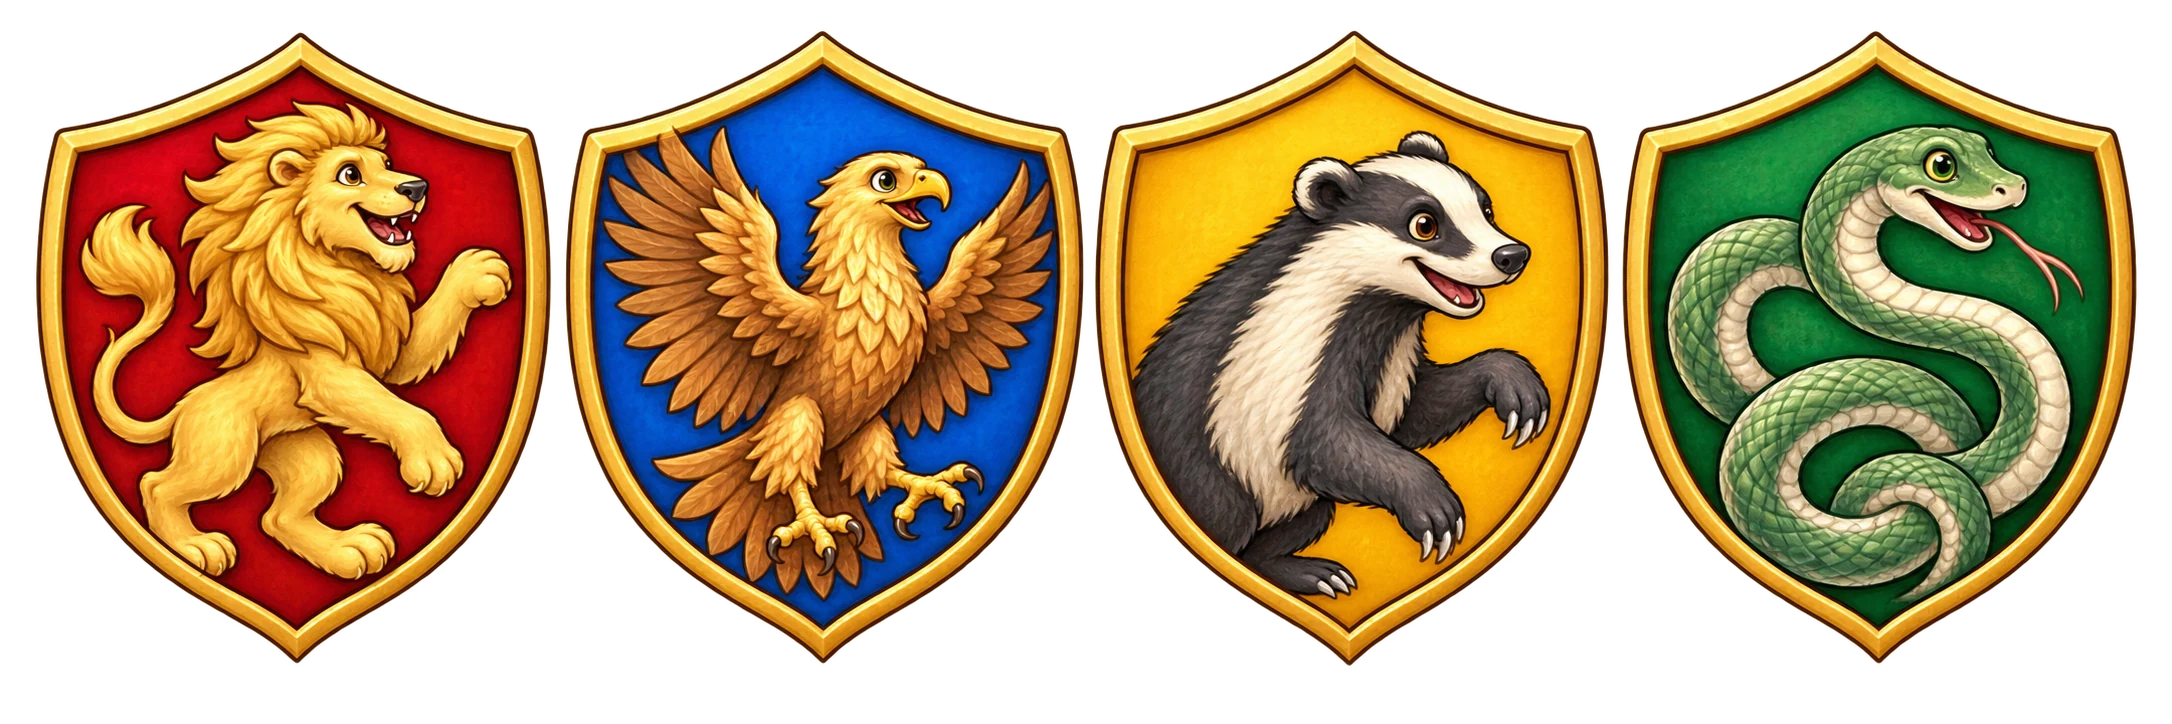
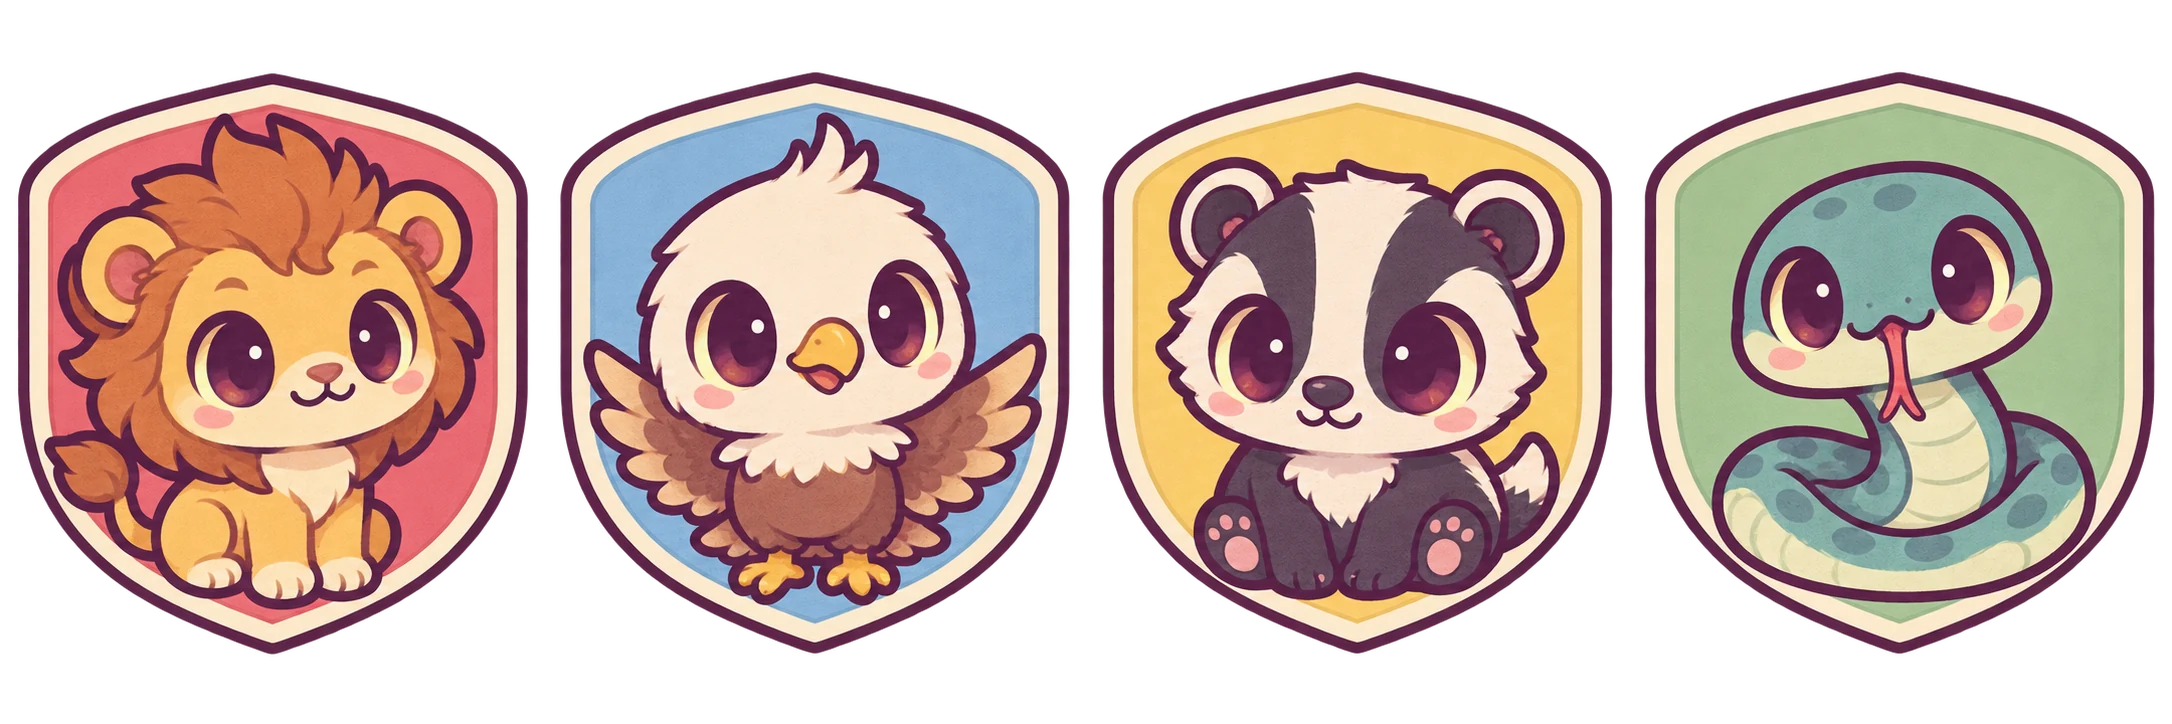
Adopter les mascottes chibi et les couleurs pastel dans l’essai

diff --git a/sorciers/style.css b/sorciers/style.css
@@ -1,6 +1,6 @@
-@font-face{font-family:Atkinson;src:url('polices/atkinson-hyperlegible-latin-400-normal.woff2') format('woff2');font-weight:400;font-display:swap}
+@font-face{font-family:Atkinson;src:url('polices/atkinson-hyperlegible-latin-400-normal.woff2?v=d64ba838ef54') format('woff2');font-weight:400;font-display:swap}
 
-@font-face{font-family:Atkinson;src:url('polices/atkinson-hyperlegible-latin-700-normal.woff2') format('woff2');font-weight:700;font-display:swap}
+@font-face{font-family:Atkinson;src:url('polices/atkinson-hyperlegible-latin-700-normal.woff2?v=140e2bd25a73') format('woff2');font-weight:700;font-display:swap}
 
 :root{color-scheme:light;--paper:#f8f5ee;--panel:#fffdf8;--ink:#332b40;--soft:#71697b;--line:#e1dbd0;--accent:#5a3f70;--wash:#ece7f0}
 
@@ -42,7 +42,7 @@ small,.muted{color:var(--soft)}
 #link-status.linked:before{color:#357766}
 .a-content{max-width:1400px;margin:auto;padding:28px 4% 40px}
 .eyebrow{text-transform:uppercase;letter-spacing:2px;font-size:12px;font-weight:700;color:var(--accent)}
-.hero{border-radius:20px;background:linear-gradient(90deg,rgba(36,23,59,.88),rgba(36,23,59,.16) 70%),url('assets/chateau.webp') center 52%/cover;min-height:420px;display:flex;align-items:center;padding:45px;color:#fff8ea}
+.hero{border-radius:20px;background:linear-gradient(90deg,rgba(36,23,59,.88),rgba(36,23,59,.16) 70%),url('assets/chateau.webp?v=bb840f9d3d93') center 52%/cover;min-height:420px;display:flex;align-items:center;padding:45px;color:#fff8ea}
 .hero-copy{max-width:510px}
 .hero h1{font-size:54px;margin:17px 0 18px;line-height:1.05}
 .hero p{font-size:18px;max-width:380px;color:#eee3f4}
@@ -59,7 +59,7 @@ small,.muted{color:var(--soft)}
 .house small{display:block;font-size:12px}
 .house>strong{margin-left:auto;font:29px/1 Georgia,serif;text-align:center;color:var(--house)}
 .house>strong small{font:11px/1.5 Atkinson,sans-serif;margin-top:4px}
-.crest{display:block;flex:none;width:48px;height:64px;background:url('assets/maisons.webp') no-repeat;background-size:400% 100%;background-position:calc(var(--h)*100%/3) 0}
+.crest{display:block;flex:none;width:48px;height:64px;background:url('assets/maisons.webp?v=4ebc69a74c45') no-repeat;background-size:400% 100%;background-position:calc(var(--h)*100%/3) 0}
 .chapter{display:grid;grid-template-columns:32% 1fr;gap:30px;align-items:center;margin-top:28px;padding:24px;background:#eee8de;border-radius:16px}
 .chapter img{width:100%;aspect-ratio:1.6;object-fit:cover;border-radius:11px}
 .chapter h2{margin-top:8px}
@@ -186,7 +186,7 @@ small,.muted{color:var(--soft)}
 .utility>div{gap:12px}
 .utility .volume{font-size:12px}
 .a-content{padding:20px 17px 25px}
-.hero{min-height:400px;padding:30px 24px;background-position:60% 50%;background-image:linear-gradient(90deg,rgba(36,23,59,.87),rgba(36,23,59,.40)),url('assets/chateau.webp')}
+.hero{min-height:400px;padding:30px 24px;background-position:60% 50%;background-image:linear-gradient(90deg,rgba(36,23,59,.87),rgba(36,23,59,.40)),url('assets/chateau.webp?v=bb840f9d3d93')}
 .hero h1{font-size:40px}
 .hero p{font-size:17px}
 .eyebrow{font-size:10px;letter-spacing:1.5px}
@@ -262,9 +262,9 @@ h1{font-size:34px}
 .phone-ritual .quiz-top{font-size:14px}
 
 /* Même famille visuelle que le Bateau-école : Baloo, cartes arrondies, boutons en relief. */
-@font-face{font-family:Baloo;src:url('polices/baloo-2-latin-700-normal.woff2') format('woff2');font-weight:700;font-display:swap}
+@font-face{font-family:Baloo;src:url('polices/baloo-2-latin-700-normal.woff2?v=8e7ffc9b993a') format('woff2');font-weight:700;font-display:swap}
 
-@font-face{font-family:Baloo;src:url('polices/baloo-2-latin-800-normal.woff2') format('woff2');font-weight:800;font-display:swap}
+@font-face{font-family:Baloo;src:url('polices/baloo-2-latin-800-normal.woff2?v=3e36c57e37bd') format('woff2');font-weight:800;font-display:swap}
 
 :root{--paper:#eef7f4;--panel:#fffdf5;--ink:#293952;--soft:#566d7f;--line:#d4e3de;--accent:#68509c;--wash:#eae4f8;--display:Baloo,'Trebuchet MS',sans-serif}
 
@@ -285,7 +285,7 @@ button,.action,.btn{font-family:var(--display);font-weight:800}
 .utility #music-toggle{background:#fff8df;border:1px solid #dccb91;border-radius:99px;padding:3px 12px}
 .utility input{background:none}
 .eyebrow{text-transform:none;letter-spacing:.2px;font:800 17px/1.3 var(--display);color:#716093}
-.hero{position:relative;overflow:hidden;min-height:435px;padding:30px;border:4px solid #c2c1e8;border-radius:32px;box-shadow:0 7px 0 #a7add3;background-image:url('assets/chateau.webp');background-position:center 53%;color:var(--ink)}
+.hero{position:relative;overflow:hidden;min-height:435px;padding:30px;border:4px solid #c2c1e8;border-radius:32px;box-shadow:0 7px 0 #a7add3;background-image:url('assets/chateau.webp?v=bb840f9d3d93');background-position:center 53%;color:var(--ink)}
 .hero-copy{position:relative;max-width:450px;background:#fffdf3f5;border:3px solid #eed49b;border-radius:28px 35px 27px 33px;padding:27px 30px 25px;box-shadow:0 6px 0 #69598638;transform:rotate(-1deg)}
 .hero .eyebrow{display:inline-block;background:#ece2fa;color:#7350a0;border-radius:99px;padding:5px 12px;font-size:15px}
 .hero h1{font:800 52px/1.03 var(--display);color:#54417e;margin:17px 0}
@@ -397,7 +397,7 @@ input,select,textarea{border:2px solid #c6b9d9;border-radius:13px}
 .a-seal{width:41px;height:46px;font-size:33px;flex:none}
 .a-nav{gap:4px}
 .a-nav button{font-size:14px;padding:7px 10px}
-.hero{min-height:490px;padding:165px 17px 20px;border-radius:25px;align-items:flex-end;background-image:url('assets/chateau.webp');background-position:74% 30%;background-size:auto 100%}
+.hero{min-height:490px;padding:165px 17px 20px;border-radius:25px;align-items:flex-end;background-image:url('assets/chateau.webp?v=bb840f9d3d93');background-position:74% 30%;background-size:auto 100%}
 .hero-copy{padding:20px 21px;transform:none;border-radius:24px;max-width:none;width:100%}
 .hero h1{font-size:40px;margin:12px 0}
 .hero .eyebrow{font-size:14px}
@@ -457,3 +457,32 @@ input,select,textarea{border:2px solid #c6b9d9;border-radius:13px}
 .phone-mode .volume{display:none}
 .phone-mode .a-nav{gap:2px}
 }
+/* Illustrations chibi : contours prune et fonds pastel inspirés de la référence fournie. */
+:root{--paper:#f8f3f7;--panel:#fffaf4;--ink:#624b68;--soft:#7b687f;--accent:#865987;--wash:#eee1f0;--line:#e5d6e3}
+body{background:radial-gradient(circle at 12px 12px,#e8dce8 1.5px,transparent 2px) 0 0/28px 28px,var(--paper)}
+.a-top{background:#fffaf4;border-color:#ead3df}
+.a-name{color:#714b75}
+.a-seal{background:#f9ddb1;border-color:#dcaec3;color:#865575;box-shadow:0 3px 0 #c797af}
+.a-caption{color:#8b7189}
+.a-nav button[aria-current=page]{background:#eedfeb;color:#7c507f;box-shadow:0 3px 0 #ceb4cc}
+.utility,.trial-footer{background:#efe3ee;border-color:#deccdf}
+.hero{background:linear-gradient(120deg,#f8e7ef,#fff5ed);min-height:455px;padding:32px;border-color:#dcbfdc;box-shadow:0 7px 0 #bea5c5;isolation:isolate}
+.hero-art{position:absolute;right:1%;bottom:12px;width:62%;height:95%;object-fit:contain;object-position:right bottom;z-index:-1}
+.hero-copy{width:43%;max-width:520px;background:#fffaf4f5;border-color:#e6c8d7;border-radius:30px;box-shadow:0 6px 0 #c4abc13b;transform:none;padding:26px}
+.hero h1{font-size:48px;color:#785080;line-height:1.08}
+.hero p{color:#826986;font-size:18px}
+.hero .eyebrow{background:#f0dce8;color:#91678e}
+.hero .action{background:#f7d3ab;border-color:#dcb18e;color:#775361;box-shadow:0 5px 0 #b9878c}
+.hero-note{color:#927079}
+.section-heading h2{color:#775b7d}
+.chapter{background:#fff2e6;border-color:#e8c9b9;box-shadow:0 5px 0 #d1b1a9}
+.chapter h2{color:#90606d}
+.chapter img{border-color:#d8bac5}
+.chapter .eyebrow{color:#b08086}
+.chapter p{color:#876c77}
+.help-strip{background:#eeebf7;border-color:#d0c4df;color:#80658b}
+.podium-title h1{color:#855a86}
+@media(max-width:1050px){.hero-copy{width:47%;padding:23px}.hero-art{right:0;width:58%}.hero h1{font-size:40px}.hero p{font-size:17px}}
+@media(max-width:650px){.hero{padding:240px 15px 18px;min-height:0;background:linear-gradient(#f8e7ef,#fff5ed)}.hero-art{width:100%;height:240px;top:4px;right:0;bottom:auto;object-position:center}.hero-copy{width:100%;padding:21px;max-width:none}.hero h1{font-size:36px}.hero p{font-size:16px}.hero .action{font-size:21px}.hero-note{font-size:12px}}
+
+@media(max-width:650px){.house{flex-direction:column;flex-wrap:nowrap;gap:6px}.house>div{flex:none}.house>strong{margin-top:auto}.house .crest{margin-bottom:2px}}

diff --git a/sorciers/app.js b/sorciers/app.js
@@ -70,7 +70,7 @@ window.Sorciers=(()=>{
   function houses(points=C.total(S)){return `<div class="houses">${H.map((h,i)=>`<article class="house" style="--house:${h.couleur}">${crest(i)}<div><b>${h.nom}</b><small>${S.eleves.filter(e=>e.actif&&e.maison===i).length} élèves</small></div><strong>${points[i]}<small>points</small></strong></article>`).join('')}</div>`;}
   function heading(k,t,p=''){return `<div class="page-heading"><div class="eyebrow">${k}</div><h1>${t}</h1>${p?`<p>${p}</p>`:''}</div>`;}
   const button=(action,label,secondary=false,extra='')=>`<button class="action${secondary?' secondary':''}" data-act="${action}" data-write ${extra}>${label}</button>`;
-  function home(){const active=S.session&&!C.fin(S);return `<section class="hero"><div class="hero-copy"><div class="eyebrow">Bienvenue à Poudlard</div><h1>Le château<br>compte sur vous !</h1><p>À vos baguettes ! Répondez aux défis, gagnez des points et découvrez les secrets du château.</p>${S.eleves.some(e=>e.actif)?button('start',active?'Reprendre l’aventure':'C’est parti !'):`<button class="action" data-view="students">Préparer ma classe</button>`}<span class="hero-note">6 questions · +5 points par bonne réponse</span></div></section>
+  function home(){const active=S.session&&!C.fin(S);return `<section class="hero"><img class="hero-art" src="assets/chateau.webp" alt="Les quatre mascottes des maisons vous accueillent devant un petit château."><div class="hero-copy"><div class="eyebrow">Bienvenue à Poudlard</div><h1>À vos baguettes,<br>les sorciers !</h1><p>Répondez aux défis, gagnez des points et découvrez les secrets du château.</p>${S.eleves.some(e=>e.actif)?button('start',active?'Reprendre l’aventure':'C’est parti !'):`<button class="action" data-view="students">Préparer ma classe</button>`}<span class="hero-note">6 questions · +5 points par bonne réponse</span></div></section>
       <div class="section-heading"><h2>Qui fera briller sa maison ?</h2><button class="text-button" data-view="podium">Voir le podium →</button></div>${houses()}
       <section class="chapter"><img src="assets/serre.webp" alt="Une serre enchantée abrite un petit dragon de feuilles."><div><div class="eyebrow">Premier secret · La serre oubliée</div><h2>Chut… ça bouge dans la serre !</h2><p>Chaque vendredi, les quatre maisons unissent leurs savoirs pour découvrir un secret. Toutes les maisons avancent ensemble.</p><button class="action secondary" data-view="secret">${S.sceau?'Retourner dans la serre':'Découvrir l’aventure'}</button></div></section>
       <div class="help-strip">${tel?'Pilote le rituel et lis les cartes depuis ce téléphone.':'Prépare les maisons, puis relie ton téléphone pour lire les cartes habituelles.'} <button class="text-button" data-view="connection">${tel?'Changer de code':'Relier le téléphone'} →</button></div>`;}

diff --git a/sorciers/index.html b/sorciers/index.html
@@ -3,7 +3,7 @@
 <head>
 <meta charset="utf-8"><meta name="viewport" content="width=device-width,initial-scale=1,viewport-fit=cover">
 <meta name="robots" content="noindex,nofollow"><meta name="referrer" content="no-referrer"><meta name="theme-color" content="#29203e">
-<title>Les secrets de Poudlard · Essai</title><link rel="stylesheet" href="style.css">
+<title>Les secrets de Poudlard · Essai</title><link rel="stylesheet" href="style.css?v=ec10f815e165">
 </head>
 <body>
 <div id="sorciers" class="academy castle">
@@ -14,10 +14,10 @@
 <section id="camera-holder" hidden aria-label="Lecture des cartes"></section>
 <footer class="trial-footer">Essai web · Données conservées sur tes appareils · Les sauvegardes du Bateau-école restent indépendantes.</footer>
 </div>
-<audio id="music" preload="none" src="assets/musique.m4a" loop></audio>
+<audio id="music" preload="none" src="assets/musique.m4a?v=bb6b01a25919" loop></audio>
 <input type="file" id="import-file" accept=".json,application/json" hidden>
-<script src="vendor/nostr-lite.js"></script><script src="vendor/mqtt.min.js"></script><script src="vendor/qrcode.js"></script>
-<script src="plateforme.js"></script><script src="aruco.js"></script>
+<script src="vendor/nostr-lite.js?v=23d5f553e01b"></script><script src="vendor/mqtt.min.js?v=f3cbeae580d3"></script><script src="vendor/qrcode.js?v=5fc89d7acfbf"></script>
+<script src="plateforme.js?v=3ef19bf1b671"></script><script src="aruco.js?v=8320da660194"></script>
 <script id="cam-detection" type="text/plain">/* js-aruco2 (MIT/BSD) - cv.js + aruco.js + 40 codes ARUCO_4X4 */
 /*
 Copyright (c) 2011 Juan Mellado
@@ -1238,6 +1238,6 @@ self.onmessage = e => {
   } catch(err){ self.postMessage({erreur:true}); }
 };
 </script>
-<script src="core.js"></script><script src="banque.js"></script><script src="app.js"></script><script src="camera.js"></script>
+<script src="core.js?v=681b6db702b4"></script><script src="banque.js?v=f04b9efd1818"></script><script src="app.js?v=c3e472d3422b"></script><script src="camera.js?v=7391e422d439"></script>
 <script>Sorciers.boot();</script>
 </body></html>
